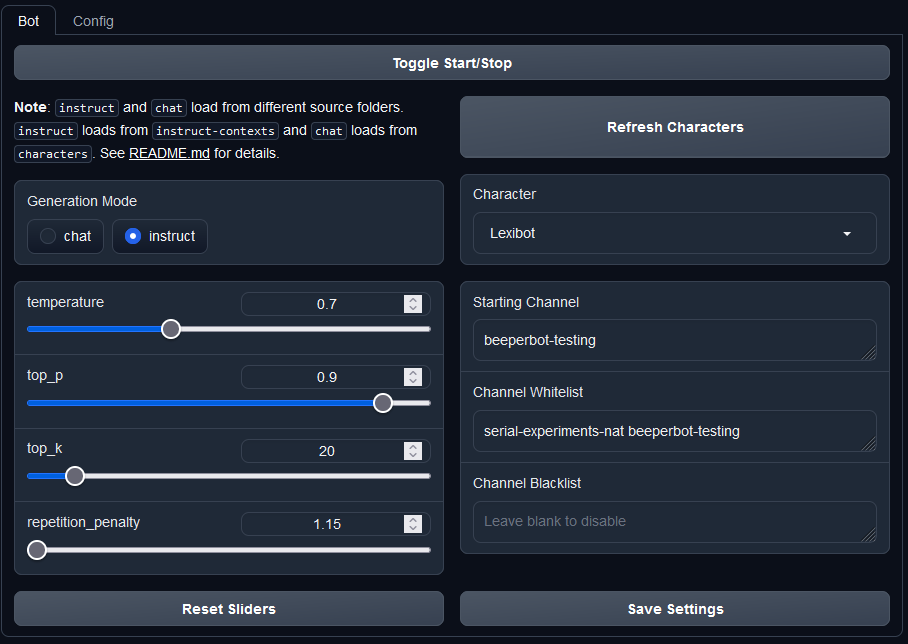
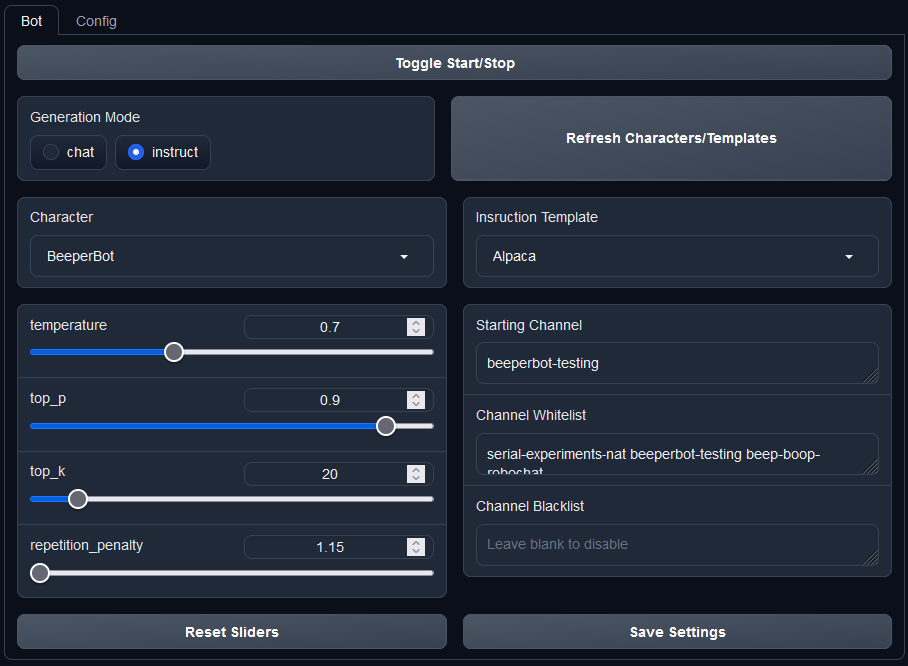
Updated the README and screenshot to reflect latest changes

Changed region(s): [[0.0, 0.0, 1.0, 0.9938]]

diff --git a/README.md b/README.md
@@ -32,13 +32,5 @@ I suggest keeping the console window you're using for running text-generation-we
 ## Character config
 
 The list of characters are populated from different sources depending on the generation mode used:
-- `chat` uses the built in `characters` folder to grab characters from. This needs no modification to work
-- `instruct` uses a custom folder called `instruct-contexts` and a custom configuration YAML file
-
-### Required params for `instruct` characters
-- `user_string` is the string that's prepended before a user's dialogue. You will want to use the one for the model you've selected (Look up your model if you aren't sure). Alpaca based models use `### Instruction:\n` for example
-- `bot_string` is the string that's prepended before a user's dialogue. Again, use the corresponding one to your model. Alpaca based models use `### Response:\n`
-- `turn_template` defines the format in history of an interaction. If you aren't sure, look at the "Intstruction template" section in the main "Parameters" or "Character" tabs depending on your version of text-generation-webui. Alpaca models use the following template: `<|user|>\n<|user-message|>\n\n<|bot|>\n<|bot-message|>\n\n`
-- `context` is where you'd put the context for a character in the main "Characters" section. `USER` is replaced with `user_string` and likewise with `BOT` and `bot_string` (this is mainly for convenience so you more easily modify the config for other models and for testing)
-
-An example config file can be found [here](instruct-example-character.yaml)
+- `chat` uses the built in `characters` folder to grab characters from and needs no additional configuration
+- `instruct` also uses the same `characters` folder but requires you select an appropriate instruction template for your specified moder
